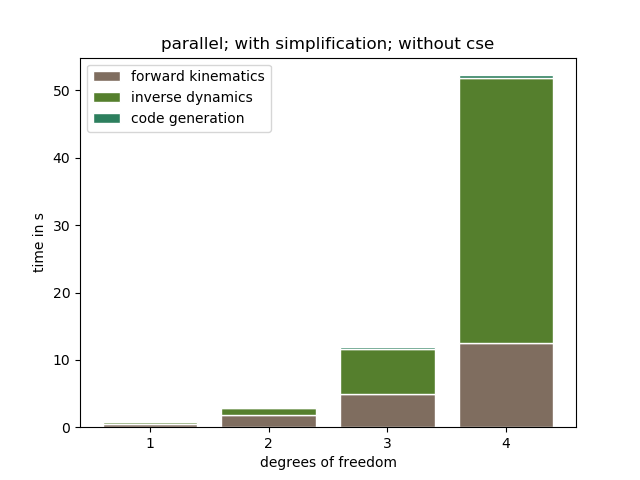
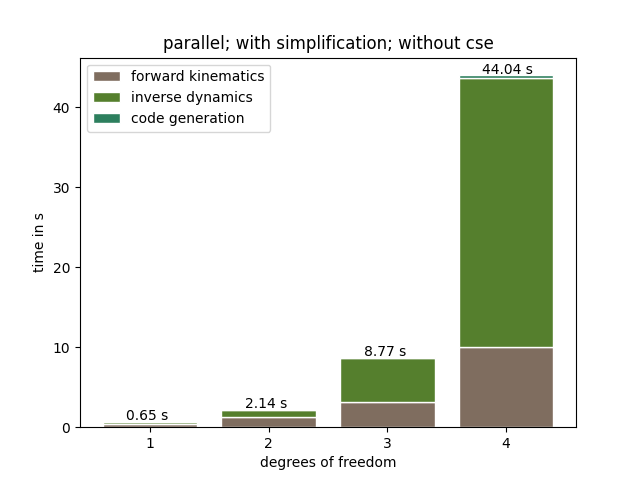
add URDF to readme

diff --git a/Benchmarking/benchmarking.py b/Benchmarking/benchmarking.py
@@ -4,7 +4,7 @@ import os
 import matplotlib.pyplot as plt
 import numpy as np
 
-def benchmark(parallel=True,simplify=True, cse=False, all = False):
+def benchmark(parallel: bool=True,simplify: bool=True, cse: bool=False, all: bool=False, save: bool=True) -> None:
     # run through all options
     if all:
         for parallel in [True, False]:
@@ -29,11 +29,6 @@ def benchmark(parallel=True,simplify=True, cse=False, all = False):
     r1.generateCode(python=True,name="r1")
     genr1 = time.time()
 
-    print("r:")
-    print("kin:", kinr1-startr1)
-    print("dyn:", dynr1-kinr1)
-    print("sum:", dynr1-startr1)
-
     startr2 = time.time()
     r2.closed_form_kinematics_body_fixed(simplify_expressions=simplify, cse_ex=cse, parallel=parallel)
     kinr2 = time.time()
@@ -41,12 +36,6 @@ def benchmark(parallel=True,simplify=True, cse=False, all = False):
     dynr2 =  time.time()
     r2.generateCode(python=True,name="r2")
     genr2 = time.time()
-
-    print("rr:")
-    print("kin:", kinr2-startr2)
-    print("dyn:", dynr2-kinr2)
-    print("sum:", dynr2-startr2)
-
 
     startr3 = time.time()
     r3.closed_form_kinematics_body_fixed(simplify_expressions=simplify, cse_ex=cse, parallel=parallel)
@@ -56,11 +45,6 @@ def benchmark(parallel=True,simplify=True, cse=False, all = False):
     r3.generateCode(python=True,name="r3")
     genr3 = time.time()
 
-    print("rrr:")
-    print("kin:", kinr3-startr3)
-    print("dyn:", dynr3-kinr3)
-    print("sum:", dynr3-startr3)
-
     startr4 = time.time()
     r4.closed_form_kinematics_body_fixed(simplify_expressions=simplify, cse_ex=cse, parallel=parallel)
     kinr4 = time.time()
@@ -69,20 +53,22 @@ def benchmark(parallel=True,simplify=True, cse=False, all = False):
     r4.generateCode(python=True,name="r4")
     genr4 = time.time()
 
-    print("rrrr:")
-    print("kin:", kinr4-startr4)
-    print("dyn:", dynr4-kinr4)
-    print("sum:", dynr4-startr4)
-
     barkin = [kinr1-startr1, kinr2-startr2, kinr3-startr3,kinr4-startr4]
     bardyn = [dynr1-kinr1, dynr2-kinr2, dynr3-kinr3, dynr4-kinr4]
     bargen = [genr1-dynr1, genr2-dynr2, genr3-dynr3, genr4-dynr4]
-
+    cumtime = [genr1-startr1,genr2-startr2,genr3-startr3,genr4-startr4]
+    
     r = [1,2,3,4]
+    
+    plt.figure()
+    
     plt.bar(r, barkin, color='#7f6d5f', edgecolor='white', width=.8, label="forward kinematics")
     plt.bar(r, bardyn, bottom=barkin, color='#557f2d', edgecolor='white', width=.8, label="inverse dynamics")
     plt.bar(r, bargen, bottom=np.add(barkin,bardyn).tolist(), color='#2d7f5e', edgecolor='white', width=.8, label="code generation")
 
+    for i in range(len(r)):
+        plt.text(r[i]-0.2, cumtime[i]+0.2, "%.02f s"%cumtime[i])
+    
     plt.xticks(r, r)
     plt.xlabel("degrees of freedom")
     plt.ylabel("time in s")
@@ -105,8 +91,10 @@ def benchmark(parallel=True,simplify=True, cse=False, all = False):
 
     plt.title(title)
     name = title.replace(";","").replace(" ","_") + ".png"
-    plt.savefig(name)
-    # plt.show()
+    if save:
+        plt.savefig(name)
+    else:
+        plt.show()
 
 
 if __name__ == "__main__":

diff --git a/README.md b/README.md
@@ -6,11 +6,12 @@
     - [2.1.1. Create robot model as YAML file](#211-create-robot-model-as-yaml-file)
     - [2.1.2. Code generation using YAML](#212-code-generation-using-yaml)
   - [2.2. Python](#22-python)
+  - [2.3. URDF](#23-urdf)
 - [3. Unit testing](#3-unit-testing)
 - [4. Benchmarking](#4-benchmarking)
+- [5. Troubleshooting](#5-troubleshooting)
 
 Symbolic kinematics and dynamics model generation using Equations of Motion in closed form.
-This python file is almost a copy of the Matlab symbolic kinematics and dynamics generation tool.
 
 ## 1. Install
 
@@ -33,6 +34,8 @@ The project requires the following packages:
     ```bash
     python3 -m pip install urdfpy
     ```
+
+    *Note:* If you have installed numpy>=1.24.0 you might need to upgrade the package networkx after installing urdfpy using `python -m pip install --upgrade networkx`. See chapter [Troubleshooting](#5-troubleshooting) for more information.
 
 - regex
 
@@ -290,7 +293,7 @@ The body reference configuration is a list of SE(3) transformation matrices. To 
     ```
 
 5. Use xyz_rpy coordinates to define Pose:
-    
+
     ```yaml
     body_ref_config:
       - xyzrpy: [0, 0, L1, 0, pi/2, 0]
@@ -451,7 +454,7 @@ To generate your robot template use
 python3 analyze_my_robot.py --please [options] new_filename.py
 ```
 
-or the python function `KinematicsGenerator.generate_template_yaml(path, structure)`.
+or the python function `KinematicsGenerator.generate_template_python(path, structure)`.
 
 For [options] the option `--structure` is highly recommended. There you can define which joint types to use in the template. E.g. use `--structure 'rrp'` for a robot which has two revolute joints followed by one prismatic joint.
 
@@ -554,7 +557,7 @@ Additionally, we import several helper functions for defining the matrices which
 - `joint_screw`: create 6x1 joint screw vector from joint axis and vector from origin to joint axis.
 - `SO3Exp`: Exponential mapping of SO(3) to generate rotation matrix from rotation angle and rotation axis.
 - `InertiaMatrix`: generate 3x3 inertia matrix from 6 independent parameters (Ixx, Ixy, ...).
-- `generalized_vectors`: generate symbolic generalized vectors q, qd and q2d of predefined length n. 
+- `generalized_vectors`: generate symbolic generalized vectors q, qd and q2d of predefined length n.
 
 ```python
 from KinematicsGenerator.symbols import g, pi
@@ -569,7 +572,6 @@ import sympy
 The whole library used sympy objects for all symbolic equations etc. Hence, we need `sympy` to create additional symbolic variables and matrices later.
 
 ---
-
 
 ```python
 # Define symbols:
@@ -687,7 +689,7 @@ The body reference configuration is a list of SE(3) transformation matrices. To 
     ```
 
 5. Use xyz_rpy coordinates to define Pose:
-    
+
     ```python
     body_ref_config.append(xyz_rpy_to_matrix([0, 0, L1, 0, pi/2, 0]))
     ```
@@ -704,7 +706,7 @@ The body reference configuration is a list of SE(3) transformation matrices. To 
         )
     )
     ```
-    
+
     Note that you have to import the function using `from KinematicsGenerator import rpy_to_matrix`.
 
 7. Use quaternion [w,x,y,z] to define rotation:
@@ -891,6 +893,190 @@ skd.generateCode(python=True, C=True, Matlab=True,
 Generate Python, Matlab and/or C (C99) code from the generated equations.
 Note that this can take time, especially for non-simplified equations and complex robots.
 
+### 2.3. URDF
+
+URDF files are currently only supported in combination with a python script. But there is a function to generate a template python file, which loads your URDF. In the python file it is necessary to define:
+
+1. the URDF path
+2. the gravity vector
+3. end-effector configruation w.r.t. last link body fixed frame in the chain
+
+To generate the python template file use:
+
+```bash
+python analyze_my_robot.py --please --urdf my_urdf_template.py
+```
+
+or the python function `KinematicsGenerator.generate_template_python(path, urdf=True)`.
+
+This generates the following output:
+
+```python
+from KinematicsGenerator import (SymbolicKinDyn,
+                                 TransformationMatrix,
+                                 SO3Exp,
+                                 generalized_vectors)
+from KinematicsGenerator.symbols import g, pi
+import sympy
+
+# Define symbols:
+lee = sympy.symbols('lee', real=True, const=True)
+
+urdfpath = '/path/to/urdf' # TODO: change me!
+
+# gravity vector
+gravity = sympy.Matrix([0,0,g])
+
+# end-effector configuration w.r.t. last link body fixed frame in the chain
+ee = TransformationMatrix(r=SO3Exp(axis=[0,0,1],angle=0),t=[0,0,0])
+
+skd = SymbolicKinDyn(gravity_vector=gravity,
+                     ee=ee,
+                     )
+
+skd.load_from_urdf(path = urdfpath,
+                   symbolic=True, 
+                   cse_ex=False, 
+                   simplify_numbers=True,  
+                   tolerance=0.0001, 
+                   max_denominator=8, 
+                   )
+
+q, qd, q2d = generalized_vectors(len(skd.body_ref_config), startindex=1)
+
+# run Calculations
+skd.closed_form_kinematics_body_fixed(q, qd, q2d, simplify_expressions=True)
+skd.closed_form_inv_dyn_body_fixed(q, qd, q2d, simplify_expressions=True)
+
+# Generate Code
+skd.generateCode(python=True, C=False, Matlab=False,
+                 folder="./generated_code", use_global_vars=True,
+                 name="plant", project="Project")
+```
+
+The code explained:
+
+```python
+from KinematicsGenerator import (SymbolicKinDyn,
+                                 TransformationMatrix,
+                                 SO3Exp,
+                                 generalized_vectors)
+```
+
+The class `SymbolicKinDyn` is the main object for calculating the kinematic and dynamic equations of your robot and generate the code.
+Additionally, we import several helper functions for defining the matrices which are useful for the robot definition:
+
+- `TransformationMatrix`: Create SE(3) transformation matrix from SO(3) rotation and translation vector.
+- `SO3Exp`: Exponential mapping of SO(3) to generate rotation matrix from rotation angle and rotation axis.
+- `generalized_vectors`: generate symbolic generalized vectors q, qd and q2d of predefined length n.
+
+```python
+from KinematicsGenerator.symbols import g, pi
+```
+
+The package `KinematicsGenerator.symbols` includes the most common used symbolic variables, which can be used for defining your robot.
+
+```python
+import sympy
+```
+
+The whole library used sympy objects for all symbolic equations etc. Hence, we need `sympy` to create additional symbolic variables and matrices later.
+
+---
+
+```python
+# Define symbols:
+lee = sympy.symbols('lee', real=True, const=True)
+```
+
+Create symbolic variables which can be used in the equations for the robot definition later. The most common symbols are also already present in the `KinematicsGenerator.symbols` package and may be imported from there instead.
+
+---
+
+```python
+urdfpath = '/path/to/urdf' # TODO: change me!
+```
+
+Enter the path to your URDF file here.
+
+---
+
+```python
+# gravity vector
+gravity = sympy.Matrix([0,0,g])
+```
+
+Gravity vector as `sympy.Matrix`. Note that we can use symbolic variables here.
+
+---
+
+```python
+# end-effector configuration w.r.t. last link body fixed frame in the chain
+ee = TransformationMatrix(r=SO3Exp(axis=[0,0,1],angle=0),t=[0,0,0])
+```
+
+End-effector representation w.r.t. last link body frame in the chain as SE(3) transformation matrix. Look up the chapter [Python](#22-python) for all available syntax options.
+
+---
+
+```python
+skd = SymbolicKinDyn(gravity_vector=gravity,
+                     ee=ee,
+                     )
+```
+
+Initialize class with the two defined parameters.
+
+---
+
+```python
+skd.load_from_urdf(path = urdfpath,
+                   symbolic=True, 
+                   cse_ex=False, 
+                   simplify_numbers=True,  
+                   tolerance=0.0001, 
+                   max_denominator=8, 
+                   )
+```
+
+Load the URDF file. Here you can specify the following options:
+
+1. `symbolic`: symbolify values in urdf file (bool).
+2. `cse_ex`: use common subexpression elimination to shorten equations (bool).
+3. `simplify_numbers`: round numbers if close to common fractions like 1/2 etc and replace eg 3.1416 by pi (bool).
+4. `tolerance`: tolerance for simplify numbers.
+5. `max_denominator`: define max denominator for simplify numbers to avoid simplification to something like 13/153. Use 0 to deactivate.
+
+---
+
+```python
+q, qd, q2d = generalized_vectors(len(skd.body_ref_config), startindex=1)
+```
+
+Generate the generalized vectors (joint positions `q`, joint velocities `qd` and joint accelerations `q2d`). The symbols are auto generated starting at index `startindex`. The degrees of freedom in this case are taken from the length of the parameter `skd.body_ref_config`, which was generated by the function `load_from_urdf`.
+
+---
+
+```python
+# run Calculations
+skd.closed_form_kinematics_body_fixed(q, qd, q2d, simplify_expressions=True)
+skd.closed_form_inv_dyn_body_fixed(q, qd, q2d, simplify_expressions=True)
+```
+
+Generate forward kinematics and inverse dynamics equations. See chapter [Python](#22-python) for more information.
+
+---
+
+```python
+# Generate Code
+skd.generateCode(python=True, C=False, Matlab=False,
+                 folder="./generated_code", use_global_vars=True,
+                 name="plant", project="Project")
+```
+
+Generate Python, Matlab and/or C (C99) code from the generated equations.
+Note that this can take time, especially for non-simplified equations and complex robots.
+
 ## 3. Unit testing
 
 To run the unit tests use:
@@ -906,14 +1092,24 @@ The results are shown in the following table:
 
 arguments | parallel | serial
 :---------|:----------:|:-----------:
-simplify|![](/Benchmarking/parallel_with_simplification_without_cse.png) | ![](/Benchmarking/serial_with_simplification_without_cse.png)
-simplify + cse|![](/Benchmarking/parallel_with_simplification_with_cse.png) |![](/Benchmarking/serial_with_simplification_with_cse.png)
-no simplify|![](/Benchmarking/parallel_without_simplification_without_cse.png) | ![](/Benchmarking/serial_without_simplification_without_cse.png)
-no simplify + cse|![](/Benchmarking/parallel_without_simplification_with_cse.png) |![](/Benchmarking/serial_without_simplification_with_cse.png)
+simplify|![1 dof: 0.65 s; 2 dof: 2.14 s; 3 dof: 8.77 s; 4 dof: 44.04 s](/Benchmarking/parallel_with_simplification_without_cse.png) | ![1 dof: 0.16 s; 2 dof: 2.38 s; 3 dof: 13.06 s; 4 dof: 60.68 s](/Benchmarking/serial_with_simplification_without_cse.png)
+simplify + cse|![1 dof: 0.56 s; 2 dof: 2.22 s; 3 dof: 12.86 s; 4 dof: 84.28 s](/Benchmarking/parallel_with_simplification_with_cse.png) |![1 dof: 0.22 s; 2 dof: 2.78 s; 3 dof: 18.49 s; 4 dof: 113.30 s](/Benchmarking/serial_with_simplification_with_cse.png)
+no simplify|![1 dof: 0.74 s; 2 dof: 2.65 s; 3 dof: 11.29 s; 4 dof: 47.14 s](/Benchmarking/parallel_without_simplification_without_cse.png) | ![1 dof: 0.08 s; 2 dof: 1.57 s; 3 dof: 9.51 s; 4 dof: 44.57 s](/Benchmarking/serial_without_simplification_without_cse.png)
+no simplify + cse|![1 dof: 0.80 s; 2 dof: 4.50 s; 3 dof: 29.13 s; 4 dof: 161.01 s](/Benchmarking/parallel_without_simplification_with_cse.png) |![1 dof: 0.08 s; 2 dof: 4.49 s; 3 dof: 37.74 s; 4 dof: 201.11 s](/Benchmarking/serial_without_simplification_with_cse.png)
 
+## 5. Troubleshooting
 
+- **`AttributeError: module 'numpy' has no attribute 'int'`**
+  
+  This error occurs, if you have installed numpy>=1.24.0. To solve it use
 
+  ```bash
+  pip -m install --upgrade networkx
+  ```
+  
+  you might see a warning like this
 
-<!-- ## 5. Shortcomings
-
-Currently, the expression simplification takes ages for higher dimension system with 3 or 4 rotational degrees of freedom. -->
+  >  ERROR: pip's dependency resolver does not currently take into account all the packages that are installed. This behaviour is the source of the following dependency conflicts.
+  urdfpy 0.0.22 requires networkx==2.2, but you have networkx 3.0 which is incompatible.
+  
+  afterwards. This warning can be ignored.
